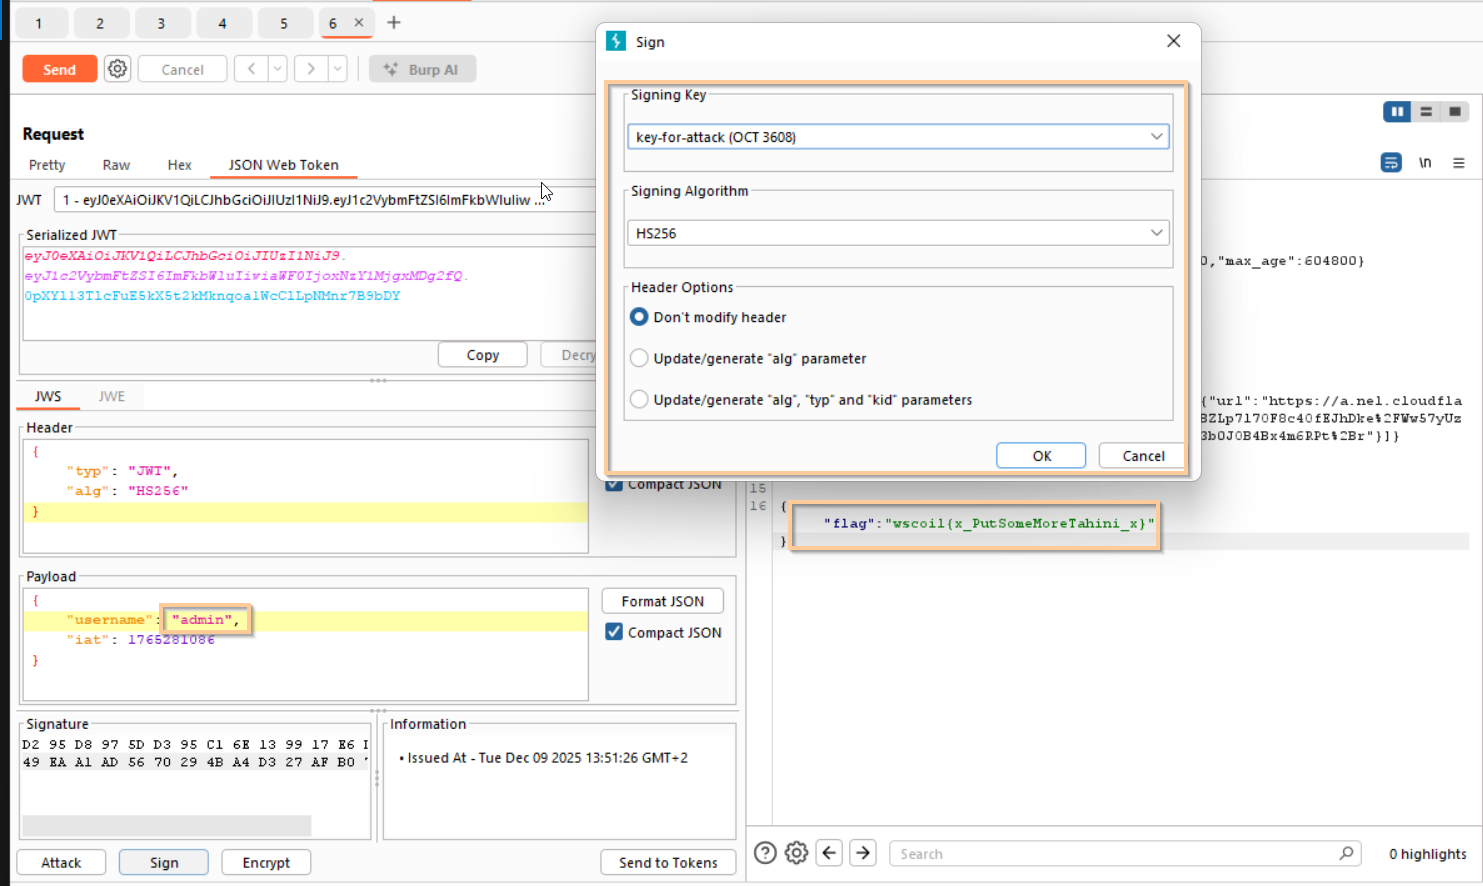
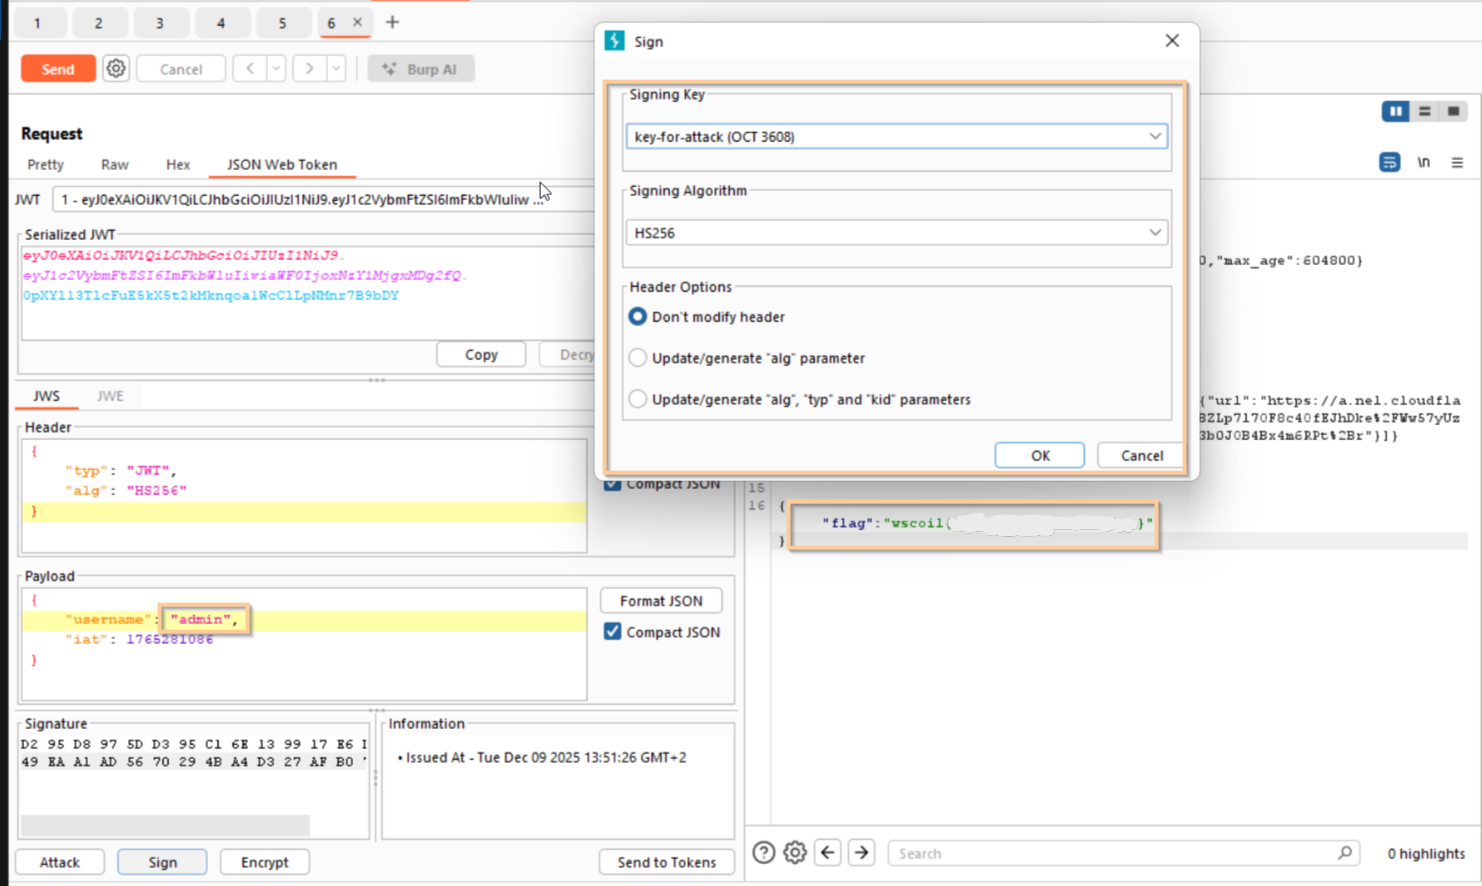
update writeup's

diff --git a/websec.il/JustWantTahini/index.md b/websec.il/JustWantTahini/index.md
@@ -56,5 +56,5 @@ Now, let's change the username to `admin` and sign the payload with our new key:
 
 And this is the flag we achieved
 ```bash
-wscoil{x_PutSomeMoreTahini_x}
+wscoil{----------------}
 ```

diff --git a/websec.il/LagerLounge/index.md b/websec.il/LagerLounge/index.md
@@ -27,5 +27,5 @@ we logged in as admin and got the flag:
 ![flag](image-6.png)
 
 ```bash
-wscoil{l4g3r_$3$$10n$_4r3_4_b1t_bubb1y}
+wscoil{--------------------}
 ```
